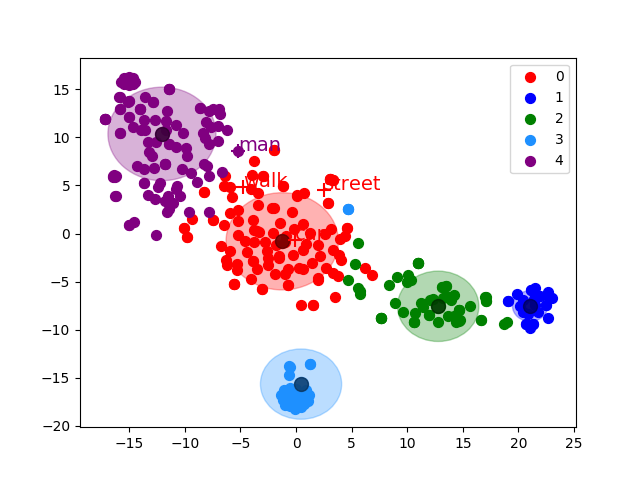
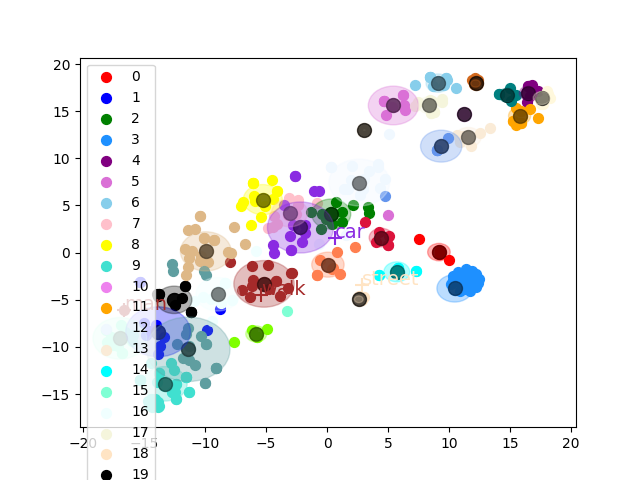
k clusters based on comment length

diff --git a/similarity.py b/similarity.py
@@ -124,7 +124,7 @@ def cluster_comments(matrix_comment, nb_of_clusters, matrix_caption):
 	
 
 def plot_cluster(matrix_comment,labels,predicted_label, centers,img_id, matrix_caption, caption):
-	cdict = {0: 'red', 1: 'blue', 2: 'green', 3:'dodgerblue', 4:'purple',5: 'orchid', 6: 'darkcyan', 7: 'pink', 8: 'yellow', 9: 'turquoise', 10: 'darkviolet',11:'orange'}
+	cdict = {0: 'red', 1: 'blue', 2: 'green', 3:'dodgerblue', 4:'purple',5: 'orchid', 6: 'skyblue', 7: 'pink', 8: 'yellow', 9: 'turquoise', 10: 'violet',11:'orange',12: 'aliceblue', 13:'antiquewhite', 14:'aqua', 15:'aquamarine', 16:'azure', 17:'beige', 18:'bisque', 19:'black', 20:'blanchedalmond', 21:'teal', 22:'blueviolet', 23:'brown', 24:'burlywood', 25:'cadetblue', 26:'chartreuse', 27:'chocolate', 28:'coral', 29:'cornflowerblue', 30:'cornsilk', 31:'crimson', 32:'cyan', 33:'darkblue', 34:'darkcyan',35:'darkgoldenrod', 36:'darkgray', 37:'darkgreen', 38:'darkkhaki', 39:'darkmagenta', 40:'darkolivegreen', 41:'darkorange', 42:'darkorchid', 43:'darkred', 44:'darksalmon', 45:'darkseagreen', 46:'darkslateblue', 47:'darkslategray', 48:'darkturquoise', 49:'darkviolet', 50:'deeppink', 51:'deepskyblue', 52:'dimgray', 53:'oldlace'}
 	
 	"""
 	-->1) Prepare the matrix to be plotted = comment+caption+cluster
@@ -177,35 +177,25 @@ def plot_cluster(matrix_comment,labels,predicted_label, centers,img_id, matrix_c
 	#plot COMMENT 
 	fig, ax = plt.subplots()
 	for l in np.unique(labels):
-		dist_comm_cent1=[]
 		dist_comm_cent=[]
 		ix = np.where(labels == l)
 		ax.scatter(scatter_comm_x[ix], scatter_comm_y[ix], c = cdict[l], label = l, s = 50)
-		print "ix:", ix
-		print "scatter_inner comm_x"
-		print DataFrame(scatter_comm_x[ix])
-		
-		print "scatter_inner comm_y"
-		print DataFrame(scatter_comm_y[ix])
-		print ""
+
 		x_comm=scatter_comm_x[ix]	
 		y_comm=scatter_comm_y[ix]
 		for i,j in zip(x_comm, y_comm):
-			print i	, j
-			
 			x_cent=scatter_cent_x[l]
 			y_cent=scatter_cent_y[l]
 		
 			a = np.array((i, j))
 			b = np.array((x_cent, y_cent))
 		
-			dist_comm_cent = np.linalg.norm(a-b)
-			dist_comm_cent1.append(dist_comm_cent)
-		print "dist", dist_comm_cent1
-		mean=sum(dist_comm_cent1) / float(len(dist_comm_cent1))
-		median=statistics.median(dist_comm_cent1)
+			dist = np.linalg.norm(a-b)
+			dist_comm_cent.append(dist)
+		mean=sum(dist_comm_cent) / float(len(dist_comm_cent))
+		median=statistics.median(dist_comm_cent)
 		ax.scatter(scatter_cent_x[l],scatter_cent_y[l], c = cdict[l], s=100, alpha=0.8)
-		circle = Circle((scatter_cent_x[l],scatter_cent_y[l]), mean, color = cdict[l], alpha=0.3)
+		circle = Circle((scatter_cent_x[l],scatter_cent_y[l]), median, color = cdict[l], alpha=0.3)
 		ax.add_artist(circle)
 	ax.legend()
 	#plot CENTROIDS
@@ -217,7 +207,7 @@ def plot_cluster(matrix_comment,labels,predicted_label, centers,img_id, matrix_c
 		plt.scatter(scatter_cap_x[i],scatter_cap_y[i],  s=110, color=cdict[c], marker='+')
 		plt.text(scatter_cap_x[i],scatter_cap_y[i], caption_list[i], color=cdict[c], size=14)
 	
-	plt.savefig('mean'+str(img_id) + '.png')
+	plt.savefig('median'+str(img_id) + '.png')
 	plt.show()
 
 if __name__ == "__main__":
@@ -229,20 +219,22 @@ if __name__ == "__main__":
 		print "Image id ---> ", img_id
 		caption = get_caption(img_id)
 		comment = get_comment(img_id)
+		
 		print "---------------------------------- COMMENT----------------------------------" 
 		print "Comment ---> "
 		print comment
 		comment_clean=clean_text(comment)
+		
 		print "Comment cleaned ---> "
 		print comment_clean
 		print ""
 		print "---------------------------------- CAPTION----------------------------------" 
 		print "Caption ---> "
-		print caption
+		print caption 
 		caption_clean=clean_text(caption)
 		print "Caption cleaned ---> "
 		print caption_clean
-		print ""
+		print 
 		
 	
 		#convert commetn text in a matrix similarity
@@ -260,95 +252,95 @@ if __name__ == "__main__":
 
 		#print "------------------------------------------end caption------------------------------" 
 	
-		#print and plot clusters
-		nclusters= 5
-		clusters, labels, centers, predicted_label = cluster_comments(matrix_comment, nclusters, matrix_caption)
-		#print "matrix centroid ", centers.shape
-		#print DataFrame(centers)
-		#print "------------------------------------------end centroid------------------------------"
-		labels_cap, mindist_caption = pairwise_distances_argmin_min(X=matrix_caption, Y=centers, metric='euclidean', metric_kwargs={'squared': False})
-		#print "mindist_caption"
-		#print mindist_caption
-		dist_caption = pairwise_distances(X=matrix_caption, Y=centers, metric='euclidean')
-		print "euclideian distance caption-centroid"
-		print dist_caption
-		#print "------------------------------------------caption - centroid------------------------------"
-		labels_comm, mindist_comment = pairwise_distances_argmin_min(X=matrix_comment, Y=centers, metric='euclidean', metric_kwargs={'squared': True})
-		#print "mindist_comment"
-		#print mindist_comment
-		dist_comment = pairwise_distances(X=matrix_comment, Y=centers, metric='euclidean')
-		print "euclideian distance comment-centroid"
-		print dist_comment
-		#print "------------------------------------------comment - centroid------------------------------"
-
-		print "---------------------------------- CLUSTER OUTPUT----------------------------------"
-		print ""
-		caption_list = caption_clean.split()
+		#print and plot clusters 
+		#k= 15% of the length of the length of the document comments"""
+		nclusters=0
+		comment_length= len(comment_clean.split())
+		print "comment length", comment_length	
+		if comment_length> 400:
+			nclusters= int((5 * comment_length) / 100.0)
+		else:
+			nclusters= int((10 * comment_length) / 100.0)
+		print "nclusters", nclusters
+		if nclusters >= 2:
+			clusters, labels, centers, predicted_label = cluster_comments(matrix_comment, nclusters, matrix_caption)
+			#print "matrix centroid ", centers.shape
+			#print DataFrame(centers)
+			#print "------------------------------------------end centroid------------------------------"
+			labels_cap, mindist_caption = pairwise_distances_argmin_min(X=matrix_caption, Y=centers, metric='euclidean', metric_kwargs={'squared': False})
+			#print "mindist_caption"
+			#print mindist_caption
+			dist_caption = pairwise_distances(X=matrix_caption, Y=centers, metric='euclidean')
+			print "euclideian distance caption-centroid"
+			print dist_caption
+			#print "------------------------------------------caption - centroid------------------------------"
+			labels_comm, mindist_comment = pairwise_distances_argmin_min(X=matrix_comment, Y=centers, metric='euclidean', metric_kwargs={'squared': True})
+			#print "mindist_comment"
+			#print mindist_comment
+			dist_comment = pairwise_distances(X=matrix_comment, Y=centers, metric='euclidean')
+			"""
+			print "euclideian distance comment-centroid"
+			print dist_comment
+			#print "------------------------------------------comment - centroid------------------------------"
+			"""
+			print "---------------------------------- CLUSTER OUTPUT----------------------------------"
+			print ""
+			caption_list = caption_clean.split()
 	
-		for cluster in range(nclusters):
+			for cluster in range(nclusters):
 			
-			print "cluster ",cluster,":"
-			for j, caption in enumerate(caption_list):
+				print "cluster ",cluster,":"
+				for j, caption in enumerate(caption_list):
 				
-				predicted_cluster = predicted_label[j] 
-				if (cluster==predicted_cluster):
-					print "caption word:", caption," - cluster:", predicted_label[j] , " - distance: ", min(dist_caption[j])
-			dist =0	
-			count=0
-			for i,sent in enumerate(clusters[cluster]):
-				counter=0
-				text=None
+					predicted_cluster = predicted_label[j] 
+					if (cluster==predicted_cluster):
+						print "caption word:", caption," - cluster:", predicted_label[j] , " - distance: ", min(dist_caption[j])
+				dist = []
+				dist_intern=0
+				count=0
+				for i,sent in enumerate(clusters[cluster]):
+					counter=0
+					text=None
 				
 				
-				for word in comment_clean.split():
-					text=word
-					if (counter==sent):
-						print "comment word: ",sent," : ", text, " - distance: ", dist_comment[sent][cluster]
-						dist+=dist_comment[sent][cluster]
-						count+=1
-					counter+=1
-			#print "dist totale:", (dist), count
-			avg = (dist/count)
-			print "avg ", avg
-		closest, _ = pairwise_distances_argmin_min(centers, matrix_caption)
+					for word in comment_clean.split():
+						text=word
+						if (counter==sent):
+							print "comment word: ",sent," : ", text, " - distance: ", dist_comment[sent][cluster]
+							dist_intern=dist_comment[sent][cluster]
+							dist.append(dist_intern)
+							count+=1
+						counter+=1
+				#print "dist totale:", (dist), count
+				#avg = (dist/count)
+				median=statistics.median(dist)
+				print "median-->", median
+			closest, _ = pairwise_distances_argmin_min(centers, matrix_caption)
 
 
-		#comment word near to the centroid
-		order_centroids=centers.argsort()[:, ::-1]
-		print order_centroids
+			#comment word near to the centroid
+			order_centroids=centers.argsort()[:, ::-1]
 
-		print "----------------------------------5word-> TOPIC OUTPUT----------------------------------" 
-		print ""
-		for cluster in range(nclusters):
+			print "----------------------------------5word-> TOPIC OUTPUT----------------------------------" 
+			print ""
+			for cluster in range(nclusters):
 			
-			print "cluster ",cluster,":"
-			#5 most common word
-			for ind in order_centroids[cluster, :5]: 
-				text=None
-				counter=0
+				print "cluster ",cluster,":"
+				#5 most common word
+				for ind in order_centroids[cluster, :5]: 
+					text=None
+					counter=0
 				
-				for word in comment_clean.split():
-					text=word
+					for word in comment_clean.split():
+						text=word
 					
-					if (counter==ind):
-						print "comment word: ",ind,": ", text, " - distance: ", dist_comment[ind][cluster]	
-					counter+=1
+						if (counter==ind):
+							print "comment word: ",ind,": ", text, " - distance: ", dist_comment[ind][cluster]	
+						counter+=1
 			
-		"""
-		print "------------------- word ranked based on the distance from the centroid --------------------------" 
-		print ""
-		for cluster in range(nclusters):
-			print "cluster ",cluster,":"
-			#5 most common word
-			for ind in order_centroids[cluster, :]: 
-				text=None
-				counter=0
-				for word in comment_clean.split():
-					text=word
-					if (counter==ind):
-						print "comment word",ind,": ", text
-					counter+=1"""
 		
-		plot_cluster(matrix_comment, labels,predicted_label, centers, img_id, matrix_caption, caption_clean)
+			plot_cluster(matrix_comment, labels,predicted_label, centers, img_id, matrix_caption, caption_clean)
+		else:
+			print "number of cluster <2, not enough words in the comment"
 		#print "--------------------------------------------------
 		
